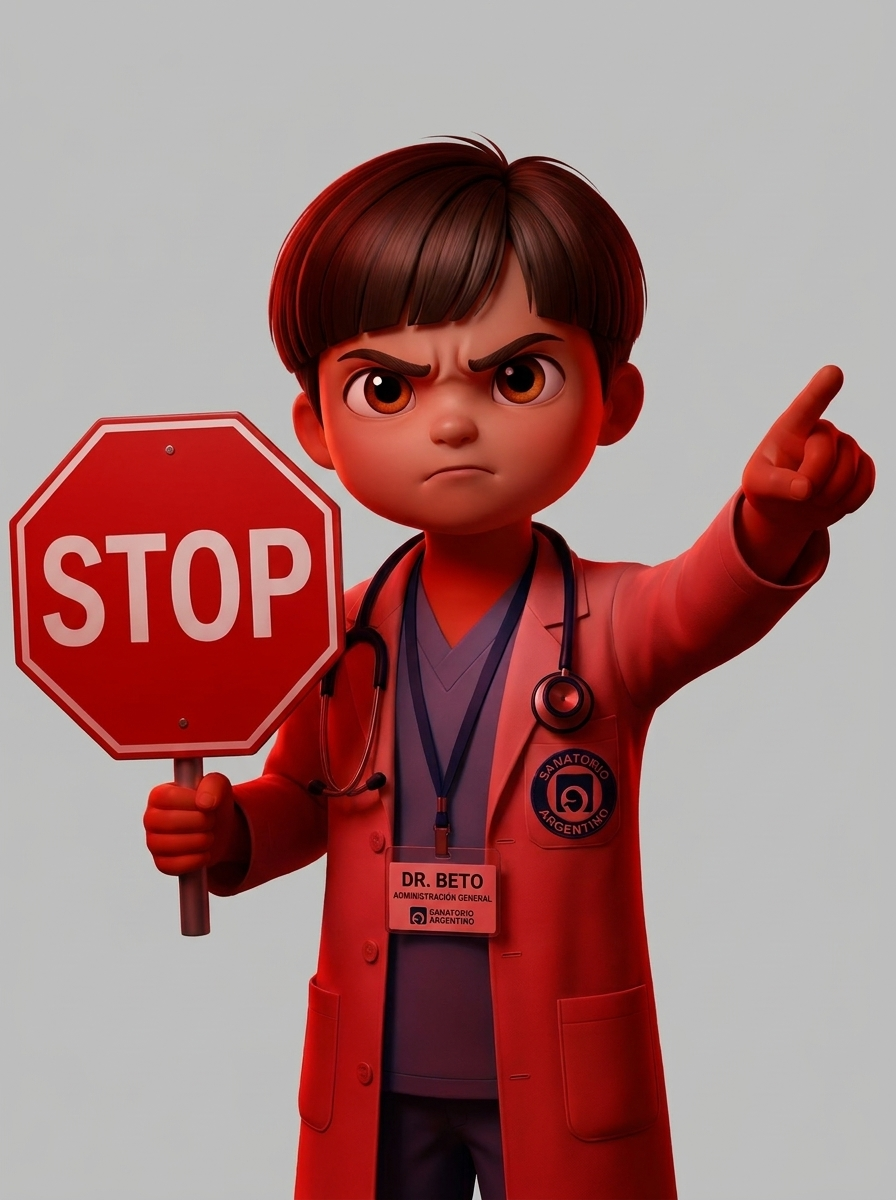
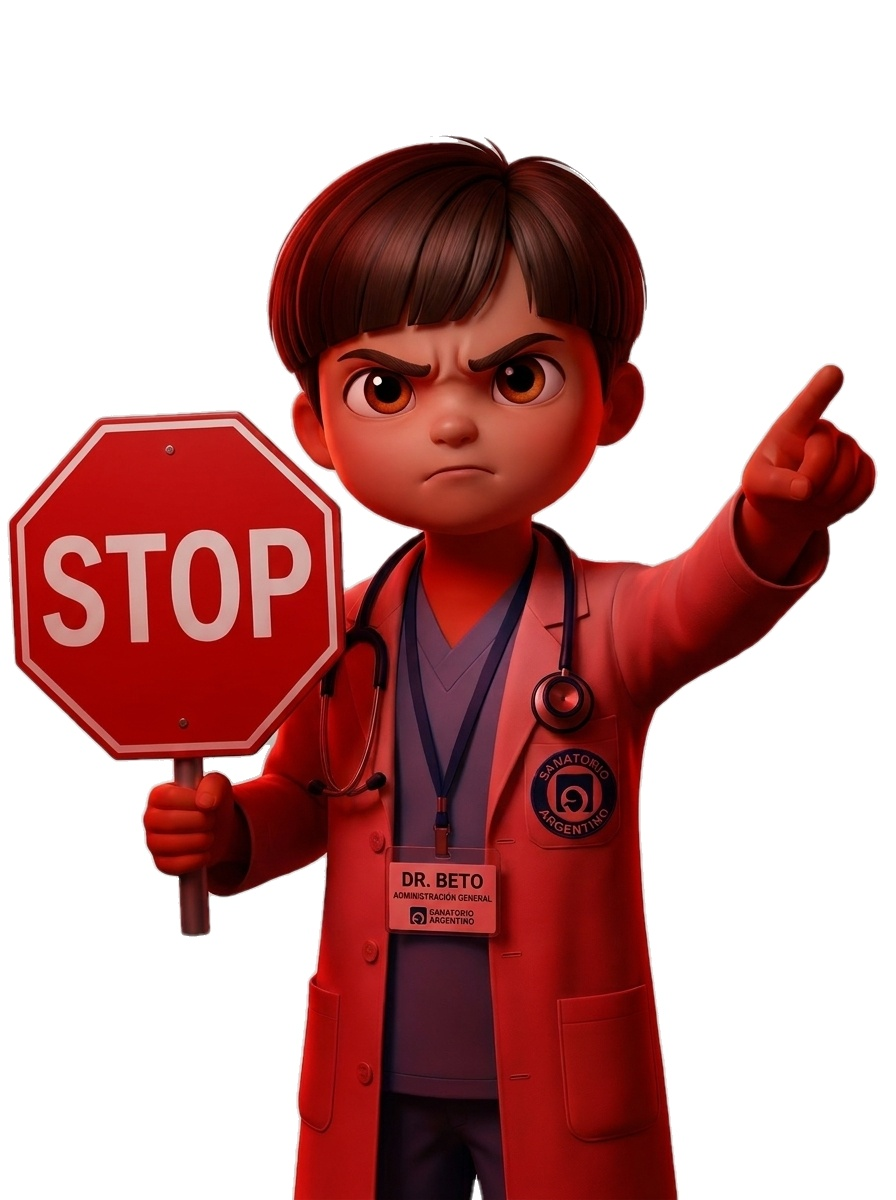
style(geo): remove red border and background from Beto location modal image

diff --git a/src/App.jsx b/src/App.jsx
@@ -1025,14 +1025,14 @@ function App({ currentUser, onLogout, onUserUpdated }) {
                         transition: 'transform 0.1s ease-in-out, border-color 0.2s',
                     }}>
                         <div style={{
-                            width: '138px', height: '158px', borderRadius: '16px', overflow: 'hidden',
-                            background: telemetryState.geo_permission === 'denied' ? '#FEF2F2' : '#EFF6FF',
-                            border: `2.5px solid ${telemetryState.geo_permission === 'denied' ? '#EF4444' : '#2563EB'}`, boxShadow: '0 10px 25px rgba(220, 38, 38, 0.22)',
+                            width: '155px', height: '175px', borderRadius: '0', overflow: 'visible',
+                            background: 'transparent',
+                            border: 'none', boxShadow: 'none',
                             display: 'flex', alignItems: 'center', justifyContent: 'center',
                             margin: '0 auto 14px',
                             color: telemetryState.geo_permission === 'denied' ? '#DC2626' : '#1E4078',
                         }}>
-                            <img src="/beto-enojado.jpg" alt="Dr. Beto - Activar Ubicación" style={{ width: '100%', height: '100%', objectFit: 'cover', objectPosition: 'top center', display: 'block' }} />
+                            <img src="/beto-enojado.png" alt="Dr. Beto - Activar Ubicación" style={{ width: '100%', height: '100%', objectFit: 'contain', objectPosition: 'center bottom', display: 'block' }} />
                         </div>
 
                         <h2 style={{ margin: '0 0 8px', fontSize: '1.22rem', fontWeight: 800, color: '#0F172A' }}>
